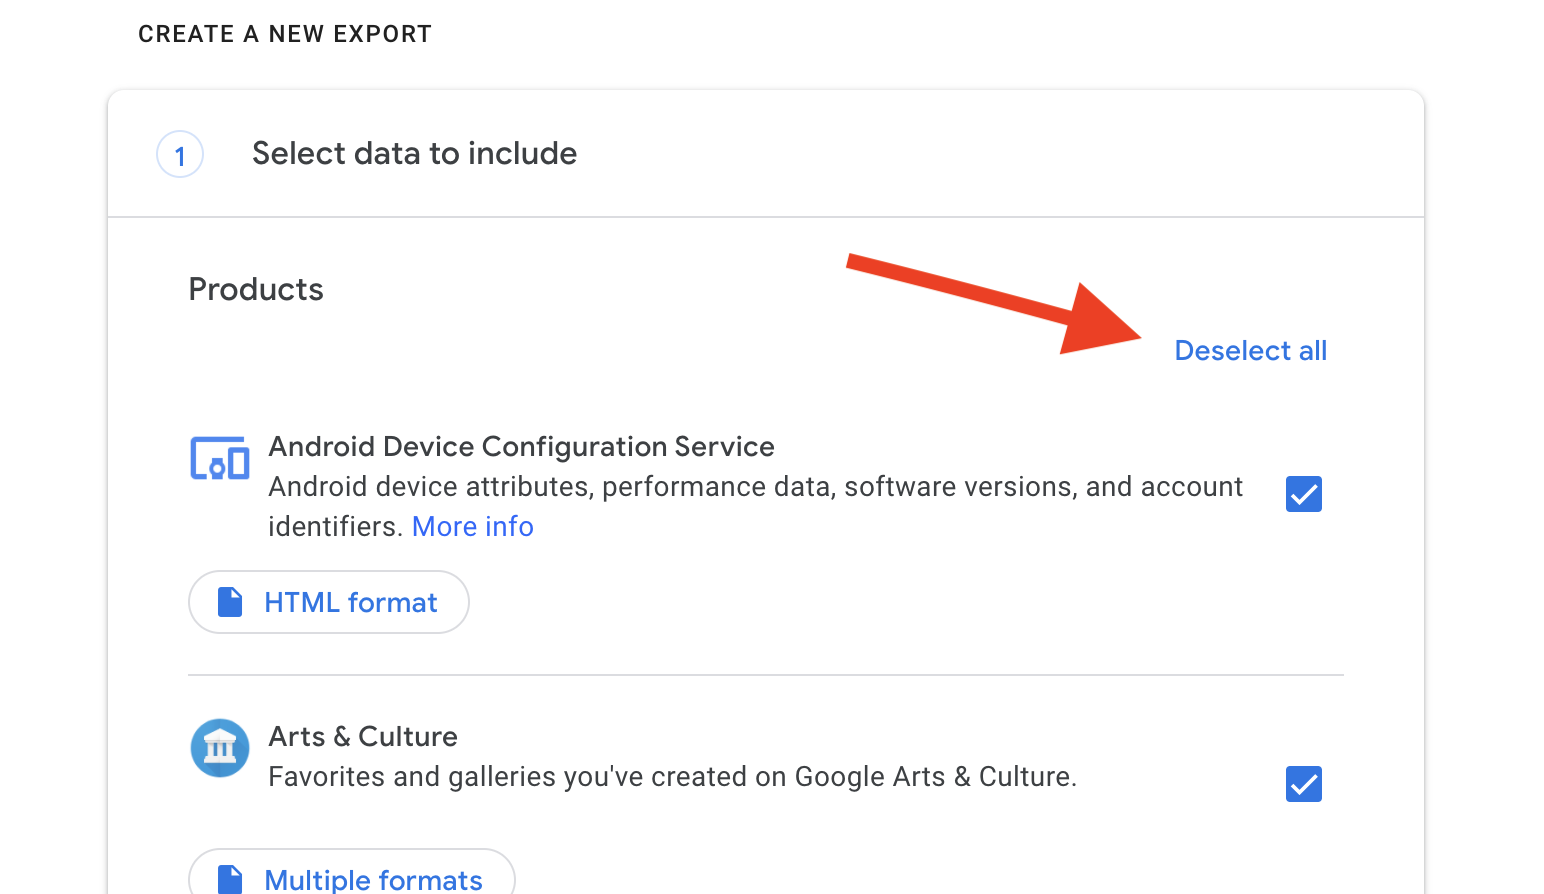
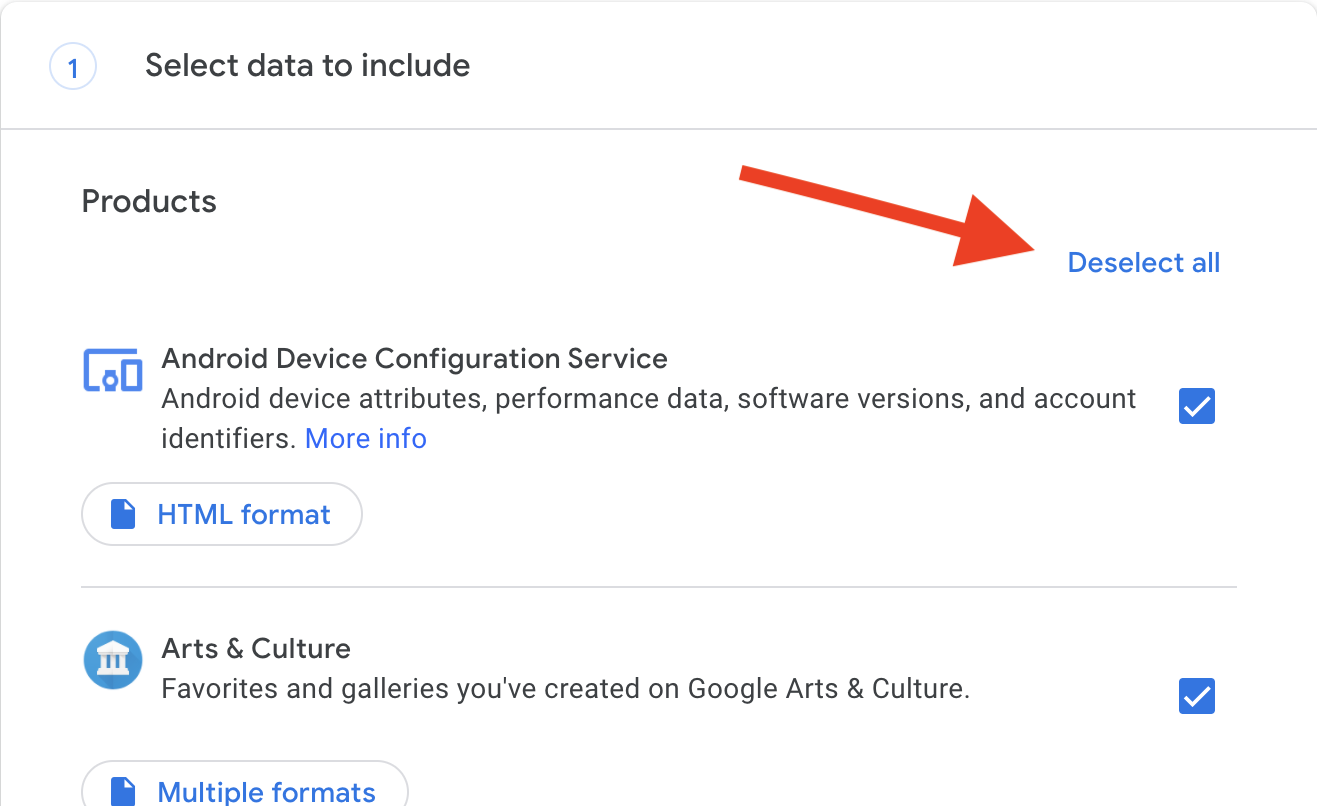
instructions

diff --git a/instr.html b/instr.html
@@ -9,9 +9,9 @@
         1. הכנסו לגוגל טייקאאוט<br>
         <a href="https://takeout.google.com/" target="_blank">https://takeout.google.com</a><br><br>
         2. בטלו את הסימונים<br>
-        <img src="./images/deselect.png" width="80%"/><br><br>
+        <img src="./images/deselect.png" width="80%" style="max-width: 500px;"/><br><br>
         3. רדו למטה וסמנו את היסטוריית המיקומים:<br>
-        <img src="./images/location_select.png" width="80%"/><br><br>
+        <img src="./images/location_select.png" width="80%" style="max-width: 500px;"/><br><br>
         4. רדו עד למטה ולחצו על next step.<br><br>
         5. לחצו על create export.<br><br>
         6. כמה דקות אחר כך ישלח אליכם קובץ zip באימייל. זה הקובץ הדרוש למערכת.

diff --git a/index.html b/index.html
@@ -42,7 +42,7 @@
     </div>
     <div id="mapid" style="width: 100%; height: 100%;"></div>
     <iframe id="instructions"
-        style="position: absolute; top: 25%; right: 25%; width: 50%; height: 50%; z-index: 9999; display: none;"
+        style="position: absolute; top: 250px; right: 20px; width: 80%; height: 50%; z-index: 9999; display: none;"
         src="./instr.html">
     </iframe>
     <script src="app.js" type="module"></script>
